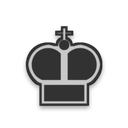
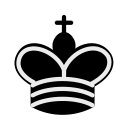
Chess: Lichess pieces and colours
Use the cburnett piece set from Lichess, with its brown board, green
last-move and selection tints, and the dark theme's colours for the
rest of the screen. The pieces are GPL v2 or later; the credit and the
license text sit beside them in the engine's assets, and the README
lists them with the other bundled art.

diff --git a/crates/libroxel-engine/assets/CHESS-PIECES.md b/crates/libroxel-engine/assets/CHESS-PIECES.md
@@ -1,0 +1,13 @@
+# Chess pieces
+
+`chess-*.png` are the "cburnett" pieces Lichess uses, taken from
+https://github.com/lichess-org/lila (`public/piece/cburnett`) and turned
+into 128x128 PNGs. They were drawn by Colin M.L. Burnett
+(https://en.wikipedia.org/wiki/User:Cburnett).
+
+Lichess lists them under the GNU General Public License, version 2 or
+later. The license text is in `CHESS-PIECES-GPL-2.0.txt` beside this file.
+The original SVG files are at the address above.
+
+Only these twelve pictures are under the GPL; the rest of Libroxel keeps
+its MIT or Apache 2.0 license.

diff --git a/README.md b/README.md
@@ -865,3 +865,6 @@ included with the program:
   `crates/libroxel/assets/fonts/` and `web/fonts/`).
 - [Phosphor](https://phosphoricons.com) icons, under the MIT License, through the
   `egui-phosphor` crate.
+- The chess pieces are Colin M.L. Burnett's "cburnett" set, as used by
+  [Lichess](https://github.com/lichess-org/lila), under the GNU GPL v2 or
+  later (see `crates/libroxel-engine/assets/CHESS-PIECES.md`).
